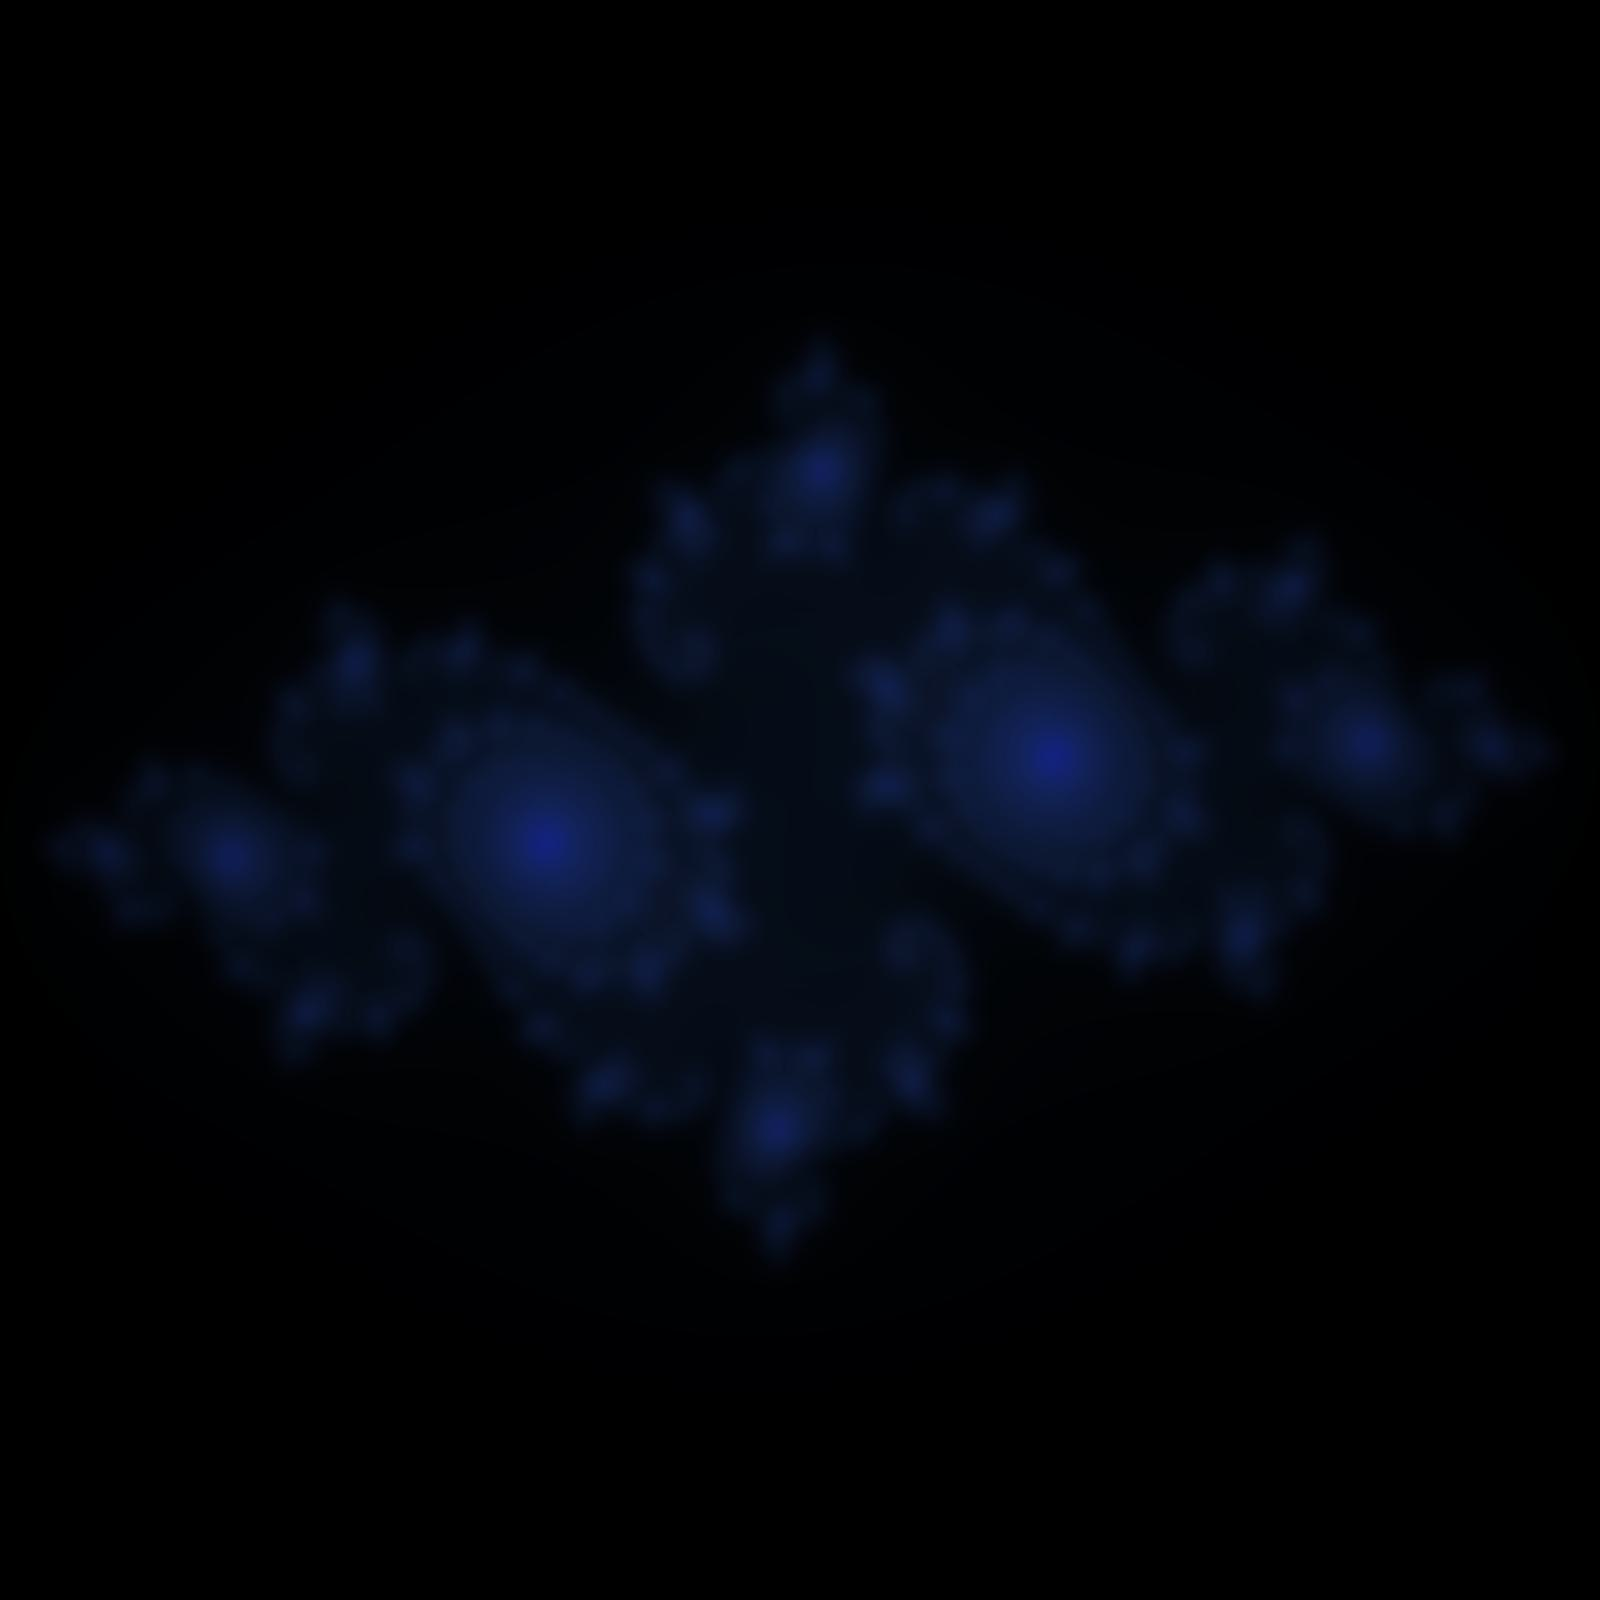
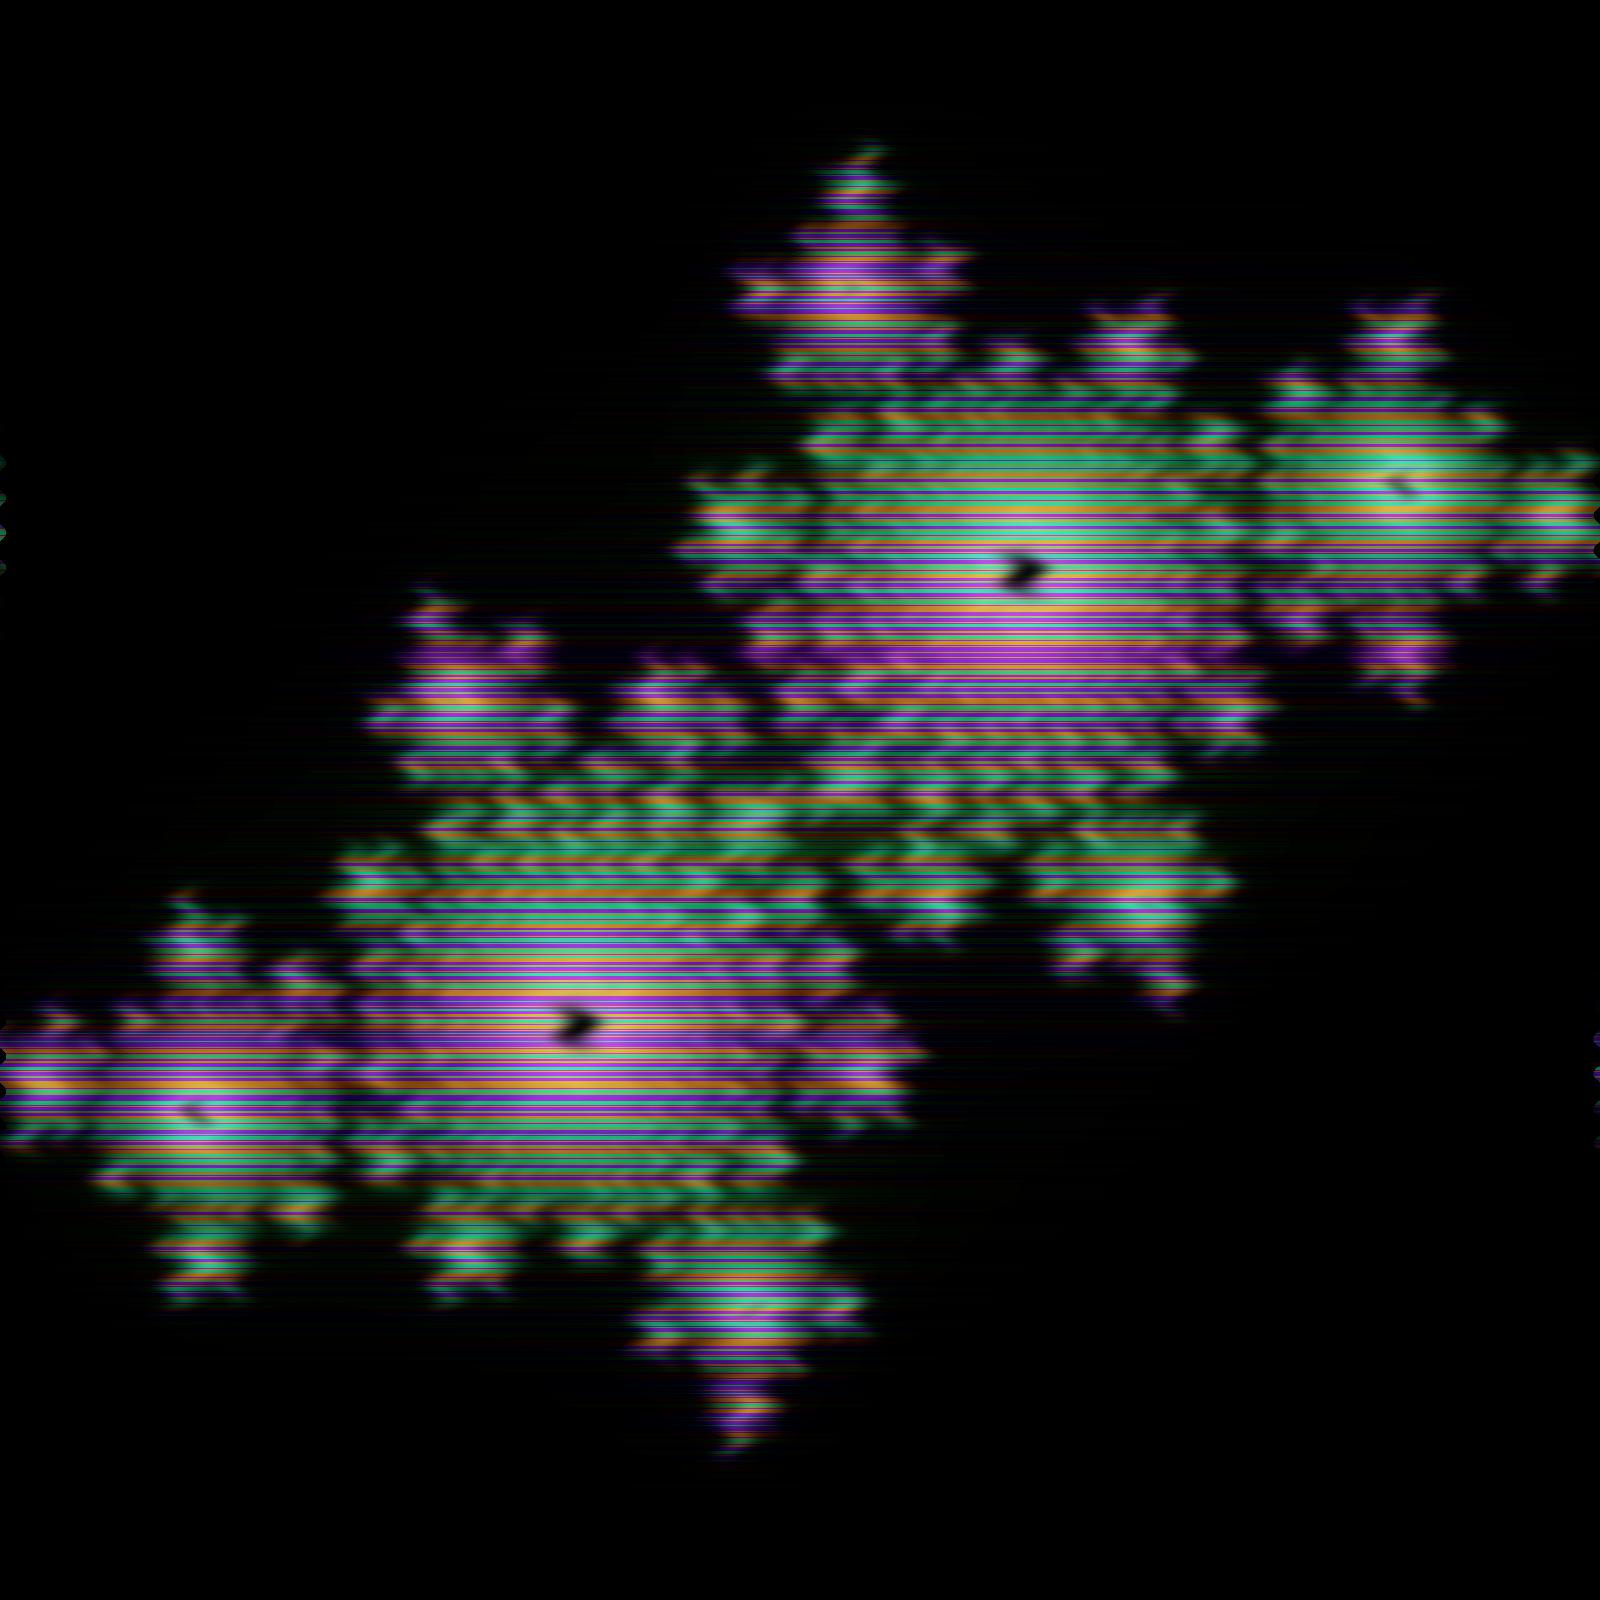
sync

diff --git a/julia_render.py b/julia_render.py
@@ -1,12 +1,12 @@
 import numpy as np
-from PIL import Image, ImageFilter, ImageEnhance, ImageDraw
+from PIL import Image, ImageFilter, ImageEnhance
 from matplotlib.colors import hsv_to_rgb
 
 width, height = 1600, 1600
-x_range = (-1.58, 1.58)
-y_range = (-1.48, 1.48)
-c = complex(-0.75, 0.16)
-max_iter = 400
+x_range = (-1.31, 1.31)
+y_range = (-1.22, 1.22)
+c = complex(-0.38, 0.6)
+max_iter = 360
 
 x = np.linspace(x_range[0], x_range[1], width)
 y = np.linspace(y_range[0], y_range[1], height)
@@ -26,30 +26,25 @@ with np.errstate(divide='ignore', invalid='ignore'):
     smooth = np.nan_to_num(smooth)
 smooth_norm = (smooth - smooth.min()) / (smooth.max() - smooth.min())
 
-# Deep blue palette
+# Fire palette
 hsv = np.zeros((height, width, 3), dtype=float)
-hsv[..., 0] = 0.6 + 0.1 * smooth_norm
-hsv[..., 1] = 0.7 + 0.3 * smooth_norm
-hsv[..., 2] = smooth_norm ** 0.8
+hsv[..., 0] = (0.05 + 0.1 * smooth_norm) % 1
+hsv[..., 1] = 1.0 - 0.5 * smooth_norm
+hsv[..., 2] = smooth_norm ** 0.7
 
 rgb = (hsv_to_rgb(hsv) * 255).astype(np.uint8)
 img = Image.fromarray(rgb)
 
-img = img.filter(ImageFilter.GaussianBlur(radius=10))
+img = img.filter(ImageFilter.GaussianBlur(radius=8))
 
-# Radial gradient overlay
-def radial_gradient(im):
-    arr = np.array(im).astype(np.float32)
-    cy, cx = arr.shape[0] // 2, arr.shape[1] // 2
-    Y, X = np.ogrid[:arr.shape[0], :arr.shape[1]]
-    r = np.sqrt((Y - cy) ** 2 + (X - cx) ** 2)
-    mask = r / r.max()
-    for c in range(3):
-        arr[..., c] = arr[..., c] * (1 - 0.5 * mask)
-    return Image.fromarray(arr.astype(np.uint8))
+def horizontal_ripple(im, amp=10, freq=0.1):
+    arr = np.array(im)
+    for i in range(arr.shape[0]):
+        arr[i] = np.roll(arr[i], int(amp * np.sin(freq * i)))
+    return Image.fromarray(arr)
 
-img = radial_gradient(img)
-img = ImageEnhance.Brightness(img).enhance(1.1)
+img = horizontal_ripple(img, amp=20, freq=0.18)
+img = ImageEnhance.Contrast(img).enhance(1.5)
 
 output_path = 'julia_output.jpg'
 img.save(output_path) 
